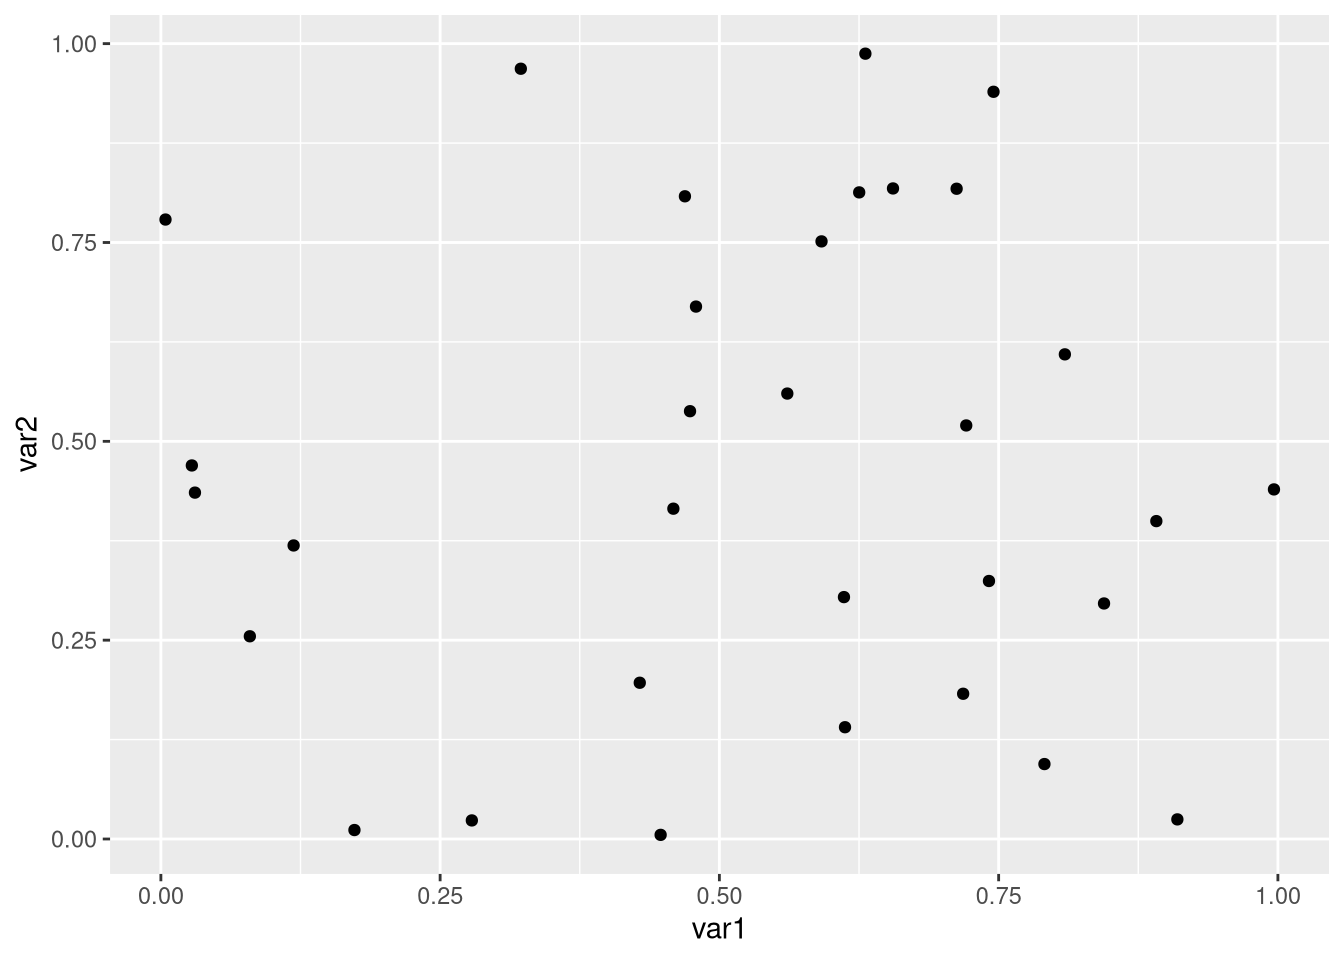
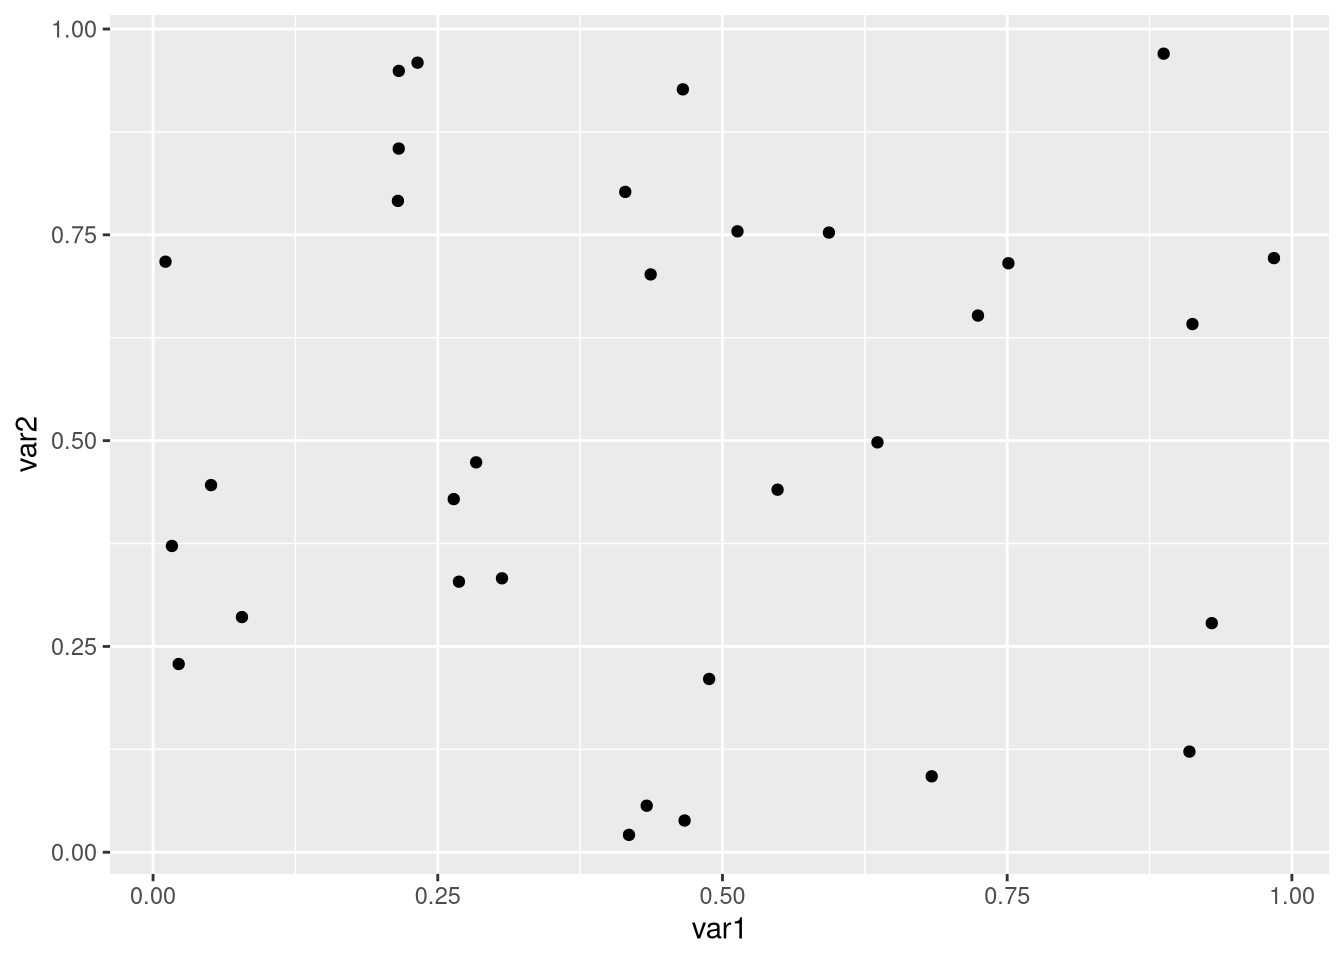
fix index

diff --git a/_book/lecture-1.html b/_book/lecture-1.html
@@ -107,7 +107,7 @@
 <ul>
 <li><p>An integer is a <em>whole number</em>. Examples of integers are 1, -2, 1000, 94.</p></li>
 <li><p>A double is a <em>real number</em>. Examples of real numbers are 1, -2, 3.14, sin(0.5).</p></li>
-<li><p>A vector is a <em>collection of values</em>. You define a vector with the <code><a href="https://rdrr.io/r/base/c.html">c()</a></code> function. For example <code>c(1, -2, 3.14, sin(0.5))</code> is a vector of doubles while <code>c('a', 'ab', 'bla bla')</code> is a vector of strings. Note that all elements in a vector have to be of the same data type. If there is a discrepency, R will try to coerce the elements to be of the same data type.</p></li>
+<li><p>A vector is a <em>collection of values</em>. You define a vector with the <code><a href="https://rdrr.io/r/base/c.html">c()</a></code> function. For example <code>c(1, -2, 3.14, sin(0.5))</code> is a vector of doubles while <code>c('a', 'ab', 'bla bla')</code> is a vector of strings. Note that all elements in a vector have to be of the same data type. If there is a discrepancy, R will try to coerce the elements to be of the same data type.</p></li>
 <li><p>A factor is a way to store categorical values. As an example, imagine you have conducted a study on patients. One of the pieces of information you store is the <em>smoking status</em> of patients. Patients can be current smokers, previous smokers, or never smokers. The <em>levels</em> of the factor are <code>never</code>, <code>previous</code>, and <code>current</code>. We will discuss factor variables later.</p></li>
 <li><p>A logical value is either <code>TRUE</code> or <code>FALSE</code>. Logical values can also be encoded as <code>1</code> and <code>0</code> for <code>TRUE</code> and <code>FALSE</code> respectively.</p></li>
 <li><p>A data frame is a collection of vectors. You can think of a data frame as an Excel spreadsheet with columns and rows. More on data frames later.</p></li>
@@ -127,7 +127,7 @@
 <div class="sourceCode" id="cb5"><pre class="downlit sourceCode r">
 <code class="sourceCode R"><span class="va">x</span> <span class="op">+</span> <span class="fl">1</span>
 <span class="co">#&gt; [1] 2 3 4</span></code></pre></div>
-<p>Be careful! If you reuse variable names the pre-existing object will be overwrriten with the new object.</p>
+<p>Be careful! If you reuse variable names the pre-existing object will be overwritten with the new object.</p>
 <div class="sourceCode" id="cb6"><pre class="downlit sourceCode r">
 <code class="sourceCode R"><span class="va">x</span> <span class="op">&lt;-</span> <span class="st">'x is no longer a vector of numbers; it is a string'</span>
 <span class="va">x</span>
@@ -258,7 +258,7 @@
 <span class="co">#&gt;  [1] 21.0 21.0 22.8 21.4 18.7 18.1 14.3 24.4 22.8 19.2 17.8</span>
 <span class="co">#&gt; [12] 16.4 17.3 15.2 10.4 10.4 14.7 32.4 30.4 33.9 21.5 15.5</span>
 <span class="co">#&gt; [23] 15.2 13.3 19.2 27.3 26.0 30.4 15.8 19.7 15.0 21.4</span></code></pre></div>
-<p>Sometimes we want to access the number of rows and/or columns of our data. We can use the <code><a href="https://rdrr.io/r/base/nrow.html">nrow()</a></code> and <code><a href="https://rdrr.io/r/base/nrow.html">ncol()</a></code> functions respectively. Alternatively, we can use the <code><a href="https://rdrr.io/r/base/dim.html">dim()</a></code> function to get both simulatenously.</p>
+<p>Sometimes we want to access the number of rows and/or columns of our data. We can use the <code><a href="https://rdrr.io/r/base/nrow.html">nrow()</a></code> and <code><a href="https://rdrr.io/r/base/nrow.html">ncol()</a></code> functions respectively. Alternatively, we can use the <code><a href="https://rdrr.io/r/base/dim.html">dim()</a></code> function to get both simultaneously.</p>
 <div class="sourceCode" id="cb13"><pre class="downlit sourceCode r">
 <code class="sourceCode R"><span class="fu"><a href="https://rdrr.io/r/base/nrow.html">nrow</a></span><span class="op">(</span><span class="va">mtcars</span><span class="op">)</span>
 <span class="co">#&gt; [1] 32</span>
@@ -361,18 +361,18 @@
 <span class="va">smallData</span> <span class="op">&lt;-</span> <span class="fu"><a href="https://dplyr.tidyverse.org/reference/mutate.html">mutate</a></span><span class="op">(</span><span class="va">smallData</span>, var2 <span class="op">=</span> <span class="fu"><a href="https://rdrr.io/r/stats/Uniform.html">runif</a></span><span class="op">(</span>n <span class="op">=</span> <span class="fu"><a href="https://rdrr.io/r/base/nrow.html">nrow</a></span><span class="op">(</span><span class="va">smallData</span><span class="op">)</span><span class="op">)</span><span class="op">)</span>
 <span class="va">smallData</span>
 <span class="co">#&gt; # A tibble: 32 × 5</span>
-<span class="co">#&gt;      mpg    hp    wt   var1    var2</span>
-<span class="co">#&gt;    &lt;dbl&gt; &lt;dbl&gt; &lt;dbl&gt;  &lt;dbl&gt;   &lt;dbl&gt;</span>
-<span class="co">#&gt;  1  21     110  2.62 0.474  0.538  </span>
-<span class="co">#&gt;  2  21     110  2.88 0.447  0.00519</span>
-<span class="co">#&gt;  3  22.8    93  2.32 0.625  0.813  </span>
-<span class="co">#&gt;  4  21.4   110  3.22 0.655  0.818  </span>
-<span class="co">#&gt;  5  18.7   175  3.44 0.469  0.808  </span>
-<span class="co">#&gt;  6  18.1   105  3.46 0.479  0.669  </span>
-<span class="co">#&gt;  7  14.3   245  3.57 0.0277 0.470  </span>
-<span class="co">#&gt;  8  24.4    62  3.19 0.996  0.440  </span>
-<span class="co">#&gt;  9  22.8    95  3.15 0.718  0.183  </span>
-<span class="co">#&gt; 10  19.2   123  3.44 0.0305 0.436  </span>
+<span class="co">#&gt;      mpg    hp    wt   var1  var2</span>
+<span class="co">#&gt;    &lt;dbl&gt; &lt;dbl&gt; &lt;dbl&gt;  &lt;dbl&gt; &lt;dbl&gt;</span>
+<span class="co">#&gt;  1  21     110  2.62 0.0166 0.372</span>
+<span class="co">#&gt;  2  21     110  2.88 0.269  0.329</span>
+<span class="co">#&gt;  3  22.8    93  2.32 0.437  0.702</span>
+<span class="co">#&gt;  4  21.4   110  3.22 0.548  0.440</span>
+<span class="co">#&gt;  5  18.7   175  3.44 0.0109 0.717</span>
+<span class="co">#&gt;  6  18.1   105  3.46 0.306  0.333</span>
+<span class="co">#&gt;  7  14.3   245  3.57 0.284  0.474</span>
+<span class="co">#&gt;  8  24.4    62  3.19 0.0225 0.229</span>
+<span class="co">#&gt;  9  22.8    95  3.15 0.913  0.642</span>
+<span class="co">#&gt; 10  19.2   123  3.44 0.415  0.802</span>
 <span class="co">#&gt; # … with 22 more rows</span></code></pre></div>
 <p>Note how we had to overwrite <code>smallData</code> when we used the <code><a href="https://dplyr.tidyverse.org/reference/mutate.html">mutate()</a></code> function.</p>
 </div>
@@ -390,7 +390,7 @@
 <h2>
 <span class="header-section-number">2.13</span> Chaining multiple functions together<a class="anchor" aria-label="anchor" href="#chaining-multiple-functions-together"><i class="fas fa-link"></i></a>
 </h2>
-<p>So far we have used <code><a href="https://dplyr.tidyverse.org/reference/select.html">select()</a></code>, <code><a href="https://dplyr.tidyverse.org/reference/mutate.html">mutate()</a></code>, and <code><a href="https://ggplot2.tidyverse.org/reference/ggplot.html">ggplot()</a></code> seperately but we can actually chain them all together with the pipe operator <code>%&gt;%</code> from the package <code>margrittr</code>. The use of the pipe became so ubiquitous that it got added to R as a built-in operator in version 4.1. The “base” R pipe is <code>|&gt;</code>.</p>
+<p>So far we have used <code><a href="https://dplyr.tidyverse.org/reference/select.html">select()</a></code>, <code><a href="https://dplyr.tidyverse.org/reference/mutate.html">mutate()</a></code>, and <code><a href="https://ggplot2.tidyverse.org/reference/ggplot.html">ggplot()</a></code> separately but we can actually chain them all together with the pipe operator <code>%&gt;%</code> from the package <code>margrittr</code>. The use of the pipe became so ubiquitous that it got added to R as a built-in operator in version 4.1. The “base” R pipe is <code>|&gt;</code>.</p>
 <p>Let’s recreate the plot from the previous section with pipes.</p>
 <div class="sourceCode" id="cb20"><pre class="downlit sourceCode r">
 <code class="sourceCode R"><span class="fu"><a href="https://rdrr.io/r/utils/install.packages.html">install.packages</a></span><span class="op">(</span><span class="st">'margrittr'</span><span class="op">)</span>

diff --git a/_book/index.html b/_book/index.html
@@ -229,10 +229,8 @@ Mon
 H-205
 </td>
 <td style="text-align:center;color: black !important;background-color: #F1EEF6 !important;">
-Introduction, setting up R and RStudio
 </td>
 <td style="text-align:center;color: black !important;background-color: #F1EEF6 !important;">
-RG: 1-2; TG: 1-2; MD: 1-4; ST21: 1
 </td>
 </tr>
 <tr>
@@ -252,10 +250,10 @@ Tue
 H-205
 </td>
 <td style="text-align:center;color: black !important;background-color: #F1EEF6 !important;">
-Descriptives, plots, reproducible research
+Introduction, setting up R and RStudio
 </td>
 <td style="text-align:center;color: black !important;background-color: #F1EEF6 !important;">
-RG: 3-4; TG: 3-4; MD: 3, A; ST21: 2-4, 17
+RG: 1-2; TG: 1-2; MD: 1-4; ST21: 1
 </td>
 </tr>
 <tr>
@@ -298,9 +296,10 @@ Thur
 H-205
 </td>
 <td style="text-align:center;color: black !important;background-color: #F1EEF6 !important;">
-Open
+Descriptives, plots, reproducible research
 </td>
 <td style="text-align:center;color: black !important;background-color: #F1EEF6 !important;">
+RG: 3-4; TG: 3-4; MD: 3, A; ST21: 2-4, 17
 </td>
 </tr>
 <tr>
@@ -625,7 +624,7 @@ Location
 1
 </td>
 <td style="text-align:center;color: black !important;background-color: #F1EEF6 !important;">
-7 Feb
+8 Feb
 </td>
 <td style="text-align:center;color: black !important;background-color: #F1EEF6 !important;">
 Tue
@@ -642,7 +641,7 @@ H-204
 1
 </td>
 <td style="text-align:center;color: black !important;background-color: #F1EEF6 !important;">
-8 Feb
+9 Feb
 </td>
 <td style="text-align:center;color: black !important;background-color: #F1EEF6 !important;">
 Wed

diff --git a/_book/index.md b/_book/index.md
@@ -114,8 +114,8 @@ Below you can see a rough plan for the course. Depending on how the course goes 
    <td style="text-align:center;color: black !important;background-color: #F1EEF6 !important;"> Mon </td>
    <td style="text-align:center;color: black !important;background-color: #F1EEF6 !important;"> 09:10 - 11:30 </td>
    <td style="text-align:center;color: black !important;background-color: #F1EEF6 !important;"> H-205 </td>
-   <td style="text-align:center;color: black !important;background-color: #F1EEF6 !important;"> Introduction, setting up R and RStudio </td>
-   <td style="text-align:center;color: black !important;background-color: #F1EEF6 !important;"> RG: 1-2; TG: 1-2; MD: 1-4; ST21: 1 </td>
+   <td style="text-align:center;color: black !important;background-color: #F1EEF6 !important;">  </td>
+   <td style="text-align:center;color: black !important;background-color: #F1EEF6 !important;">  </td>
   </tr>
   <tr>
    <td style="text-align:center;color: black !important;background-color: #F1EEF6 !important;"> 1 </td>
@@ -123,8 +123,8 @@ Below you can see a rough plan for the course. Depending on how the course goes 
    <td style="text-align:center;color: black !important;background-color: #F1EEF6 !important;"> Tue </td>
    <td style="text-align:center;color: black !important;background-color: #F1EEF6 !important;"> 09:10 - 11:30 </td>
    <td style="text-align:center;color: black !important;background-color: #F1EEF6 !important;"> H-205 </td>
-   <td style="text-align:center;color: black !important;background-color: #F1EEF6 !important;"> Descriptives, plots, reproducible research </td>
-   <td style="text-align:center;color: black !important;background-color: #F1EEF6 !important;"> RG: 3-4; TG: 3-4; MD: 3, A; ST21: 2-4, 17 </td>
+   <td style="text-align:center;color: black !important;background-color: #F1EEF6 !important;"> Introduction, setting up R and RStudio </td>
+   <td style="text-align:center;color: black !important;background-color: #F1EEF6 !important;"> RG: 1-2; TG: 1-2; MD: 1-4; ST21: 1 </td>
   </tr>
   <tr>
    <td style="text-align:center;color: black !important;background-color: #F1EEF6 !important;"> 1 </td>
@@ -141,8 +141,8 @@ Below you can see a rough plan for the course. Depending on how the course goes 
    <td style="text-align:center;color: black !important;background-color: #F1EEF6 !important;"> Thur </td>
    <td style="text-align:center;color: black !important;background-color: #F1EEF6 !important;"> 09:10 - 11:30 </td>
    <td style="text-align:center;color: black !important;background-color: #F1EEF6 !important;"> H-205 </td>
-   <td style="text-align:center;color: black !important;background-color: #F1EEF6 !important;"> Open </td>
-   <td style="text-align:center;color: black !important;background-color: #F1EEF6 !important;">  </td>
+   <td style="text-align:center;color: black !important;background-color: #F1EEF6 !important;"> Descriptives, plots, reproducible research </td>
+   <td style="text-align:center;color: black !important;background-color: #F1EEF6 !important;"> RG: 3-4; TG: 3-4; MD: 3, A; ST21: 2-4, 17 </td>
   </tr>
   <tr>
    <td style="text-align:center;color: black !important;background-color: #F1EEF6 !important;"> 1 </td>
@@ -279,14 +279,14 @@ Below you can see a rough plan for the course. Depending on how the course goes 
 <tbody>
   <tr>
    <td style="text-align:center;color: black !important;background-color: #F1EEF6 !important;"> 1 </td>
-   <td style="text-align:center;color: black !important;background-color: #F1EEF6 !important;"> 7 Feb </td>
+   <td style="text-align:center;color: black !important;background-color: #F1EEF6 !important;"> 8 Feb </td>
    <td style="text-align:center;color: black !important;background-color: #F1EEF6 !important;"> Tue </td>
    <td style="text-align:center;color: black !important;background-color: #F1EEF6 !important;"> 12:30 - 14:00 </td>
    <td style="text-align:center;color: black !important;background-color: #F1EEF6 !important;"> H-204 </td>
   </tr>
   <tr>
    <td style="text-align:center;color: black !important;background-color: #F1EEF6 !important;"> 1 </td>
-   <td style="text-align:center;color: black !important;background-color: #F1EEF6 !important;"> 8 Feb </td>
+   <td style="text-align:center;color: black !important;background-color: #F1EEF6 !important;"> 9 Feb </td>
    <td style="text-align:center;color: black !important;background-color: #F1EEF6 !important;"> Wed </td>
    <td style="text-align:center;color: black !important;background-color: #F1EEF6 !important;"> 12:30 - 14:00 </td>
    <td style="text-align:center;color: black !important;background-color: #F1EEF6 !important;"> H-203 </td>

diff --git a/_book/01-lecture1.md b/_book/01-lecture1.md
@@ -54,7 +54,7 @@ R has many other objects besides strings such as integers, doubles (reals), vect
 
 - A double is a *real number*. Examples of real numbers are 1, -2, 3.14, sin(0.5).
 
-- A vector is a *collection of values*. You define a vector with the `c()` function. For example `c(1, -2, 3.14, sin(0.5))` is a vector of doubles while `c('a', 'ab', 'bla bla')` is a vector of strings. Note that all elements in a vector have to be of the same data type. If there is a discrepency, R will try to coerce the elements to be of the same data type.
+- A vector is a *collection of values*. You define a vector with the `c()` function. For example `c(1, -2, 3.14, sin(0.5))` is a vector of doubles while `c('a', 'ab', 'bla bla')` is a vector of strings. Note that all elements in a vector have to be of the same data type. If there is a discrepancy, R will try to coerce the elements to be of the same data type.
 
 - A factor is a way to store categorical values. As an example, imagine you have conducted a study on patients. One of the pieces of information you store is the *smoking status* of patients. Patients can be current smokers, previous smokers, or never smokers. The *levels* of the factor are `never`, `previous`, and `current`. We will discuss factor variables later.
 
@@ -82,7 +82,7 @@ x + 1
 #> [1] 2 3 4
 ```
 
-Be careful! If you reuse variable names the pre-existing object will be overwrriten with the new object.
+Be careful! If you reuse variable names the pre-existing object will be overwritten with the new object.
 
 
 ```r
@@ -236,7 +236,7 @@ mtcars$mpg
 #> [23] 15.2 13.3 19.2 27.3 26.0 30.4 15.8 19.7 15.0 21.4
 ```
 
-Sometimes we want to access the number of rows and/or columns of our data. We can use the `nrow()` and `ncol()` functions respectively. Alternatively, we can use the `dim()` function to get both simulatenously.
+Sometimes we want to access the number of rows and/or columns of our data. We can use the `nrow()` and `ncol()` functions respectively. Alternatively, we can use the `dim()` function to get both simultaneously.
 
 
 ```r
@@ -351,18 +351,18 @@ smallData$var1 <- runif(n = nrow(smallData))
 smallData <- mutate(smallData, var2 = runif(n = nrow(smallData)))
 smallData
 #> # A tibble: 32 × 5
-#>      mpg    hp    wt   var1    var2
-#>    <dbl> <dbl> <dbl>  <dbl>   <dbl>
-#>  1  21     110  2.62 0.474  0.538  
-#>  2  21     110  2.88 0.447  0.00519
-#>  3  22.8    93  2.32 0.625  0.813  
-#>  4  21.4   110  3.22 0.655  0.818  
-#>  5  18.7   175  3.44 0.469  0.808  
-#>  6  18.1   105  3.46 0.479  0.669  
-#>  7  14.3   245  3.57 0.0277 0.470  
-#>  8  24.4    62  3.19 0.996  0.440  
-#>  9  22.8    95  3.15 0.718  0.183  
-#> 10  19.2   123  3.44 0.0305 0.436  
+#>      mpg    hp    wt   var1  var2
+#>    <dbl> <dbl> <dbl>  <dbl> <dbl>
+#>  1  21     110  2.62 0.0166 0.372
+#>  2  21     110  2.88 0.269  0.329
+#>  3  22.8    93  2.32 0.437  0.702
+#>  4  21.4   110  3.22 0.548  0.440
+#>  5  18.7   175  3.44 0.0109 0.717
+#>  6  18.1   105  3.46 0.306  0.333
+#>  7  14.3   245  3.57 0.284  0.474
+#>  8  24.4    62  3.19 0.0225 0.229
+#>  9  22.8    95  3.15 0.913  0.642
+#> 10  19.2   123  3.44 0.415  0.802
 #> # … with 22 more rows
 ```
 
@@ -380,7 +380,7 @@ ggplot(data = smallData, aes(x = var1, y = var2)) +
 <img src="01-lecture1_files/figure-html/unnamed-chunk-19-1.png" width="672" />
 
 ## Chaining multiple functions together
-So far we have used `select()`, `mutate()`, and `ggplot()` seperately but we can actually chain them all together with the pipe operator `%>%` from the package `margrittr`. The use of the pipe became so ubiquitous that it got added to R as a built-in operator in version 4.1. The "base" R pipe is `|>`. 
+So far we have used `select()`, `mutate()`, and `ggplot()` separately but we can actually chain them all together with the pipe operator `%>%` from the package `margrittr`. The use of the pipe became so ubiquitous that it got added to R as a built-in operator in version 4.1. The "base" R pipe is `|>`. 
 
 Let's recreate the plot from the previous section with pipes.
 
